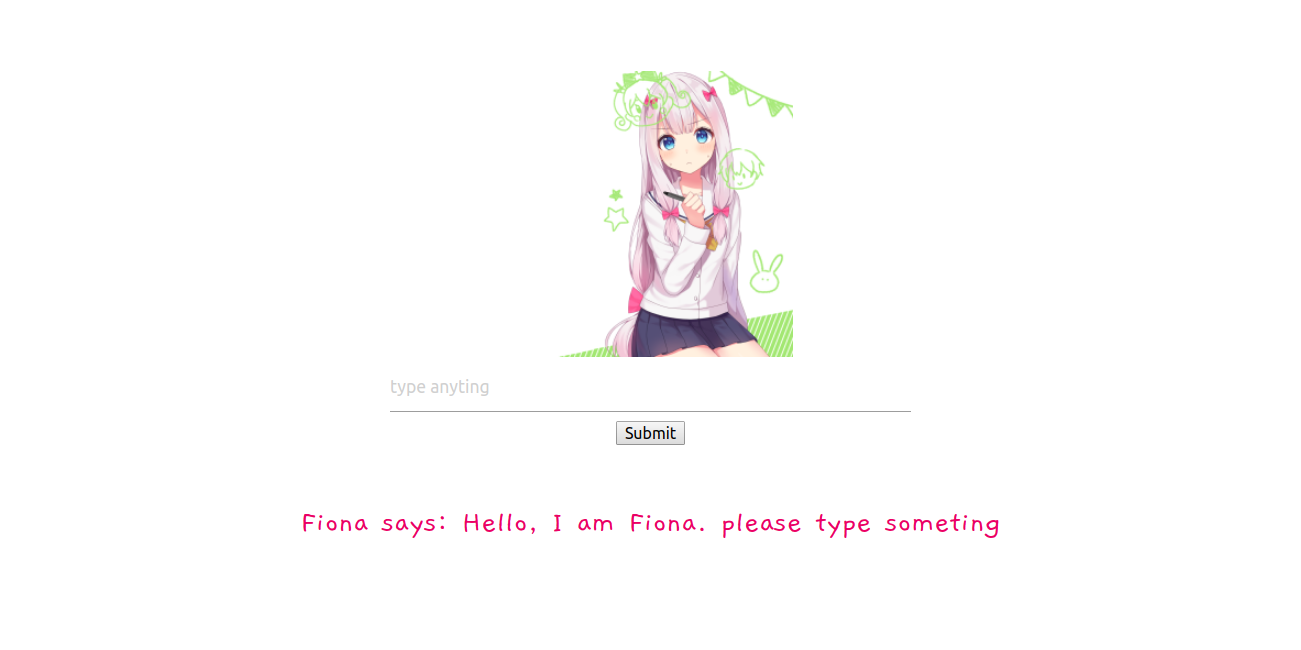
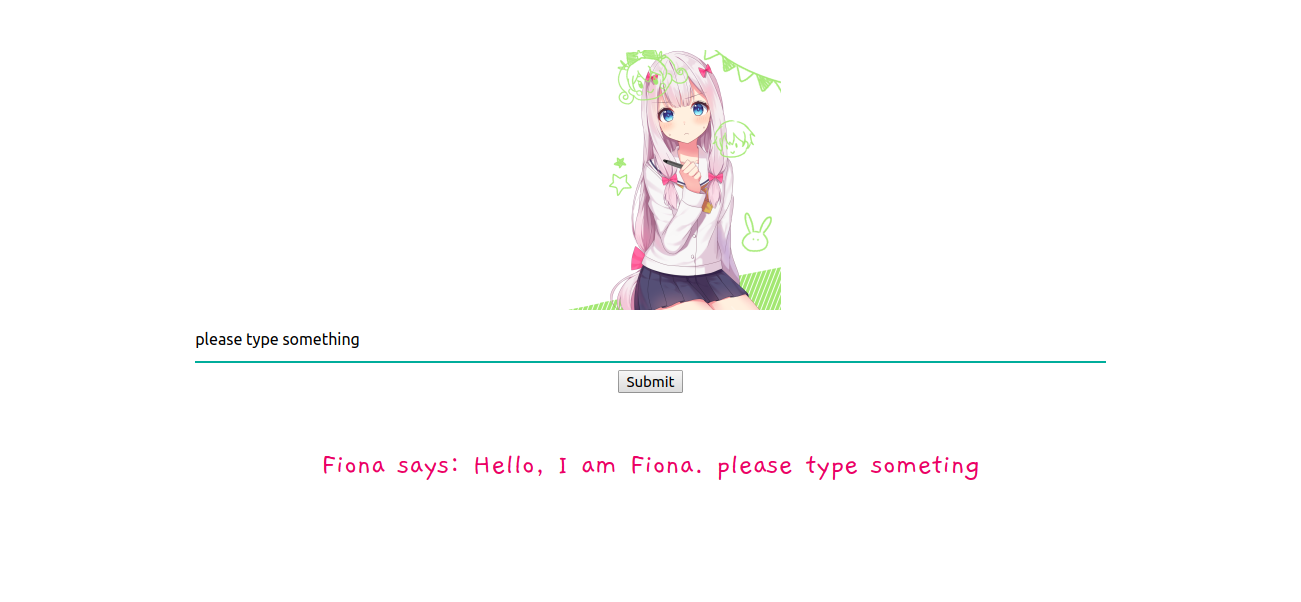
resize peoject pic

Changed region(s): [[0.4304, 0.0598, 0.6149, 0.5681], [0.1537, 0.5382, 0.8301, 0.6877], [0.2152, 0.7475, 0.7686, 0.8372]]

diff --git a/index.html b/index.html
@@ -70,15 +70,15 @@
 <section class="aboutme" id="about">
   <div class="aboutme-section py-3">
     <div class="container text-center">
-      <h2 class="text-center py-3" data-aos="fade-down">Hwo Am I</h2>
-      <div class="row">
+      <h2 class="text-center py-3" data-aos="fade-down">Who Am I</h2>
+      <div class="row text-justify">
         <div class="col-12 col-md-6">
           <div class="row">
-            <div class="col-md-10"  data-aos="fade-up">
+            <div class="col-md-10"  data-aos="fade-down">
               <p>
                 In 2016 I moved to Germany from Aleppo, Syria. I currently reside in Potsdam.
-                I studied  Music Art, I completed my one year Web Development course .
-                The course focuses on programming languages such as: HTML, CSS, Javascript with strong points on frameworks as React.js, NodeJS and their compatible 
+                I studied  Music Art, I completed my one year Web Development course.
+                The course focuses on programming languages such as: HTML, CSS, Javascript with strong points on frameworks as React.js, Node.Js.
               </p> 
               <!-- <img src="./img/pic.jpg"> --> 
             </div>
@@ -86,9 +86,9 @@
         </div>
         <div class="col-12 col-md-6">
           <div class="row">
-            <div class="col-md-10" data-aos="fade-up">
+            <div class="col-md-10" data-aos="fade-down">
               <p>
-                  A large part of the course experience is working on and developing projects as a part of a team, using Github, Waffle.io and other tools for project management and solving problems together I always like challenge, I'm very passionate about my new step,  being an artist  find  the way to combine  creativity with technology and always to achive the best.
+                  A large part of the course experience is working on and developing projects, as a part of a team, using Github for project management and solving problems together, I always like challenge. I'm very passionate about my new step,Being an artist and developer I want to find ways to combine creativity with technology and always give my best.
                </p>  
               </div>
             </div>
@@ -107,21 +107,21 @@
 
 <section>
   <div class="container project-section">
-    <div class="width row">
+    <div class="row">
         <div class="col-md-4  col-sm-6 mb-5">
             <a href="https://meralle.github.io/countriers/" target="blank">
                 <img src=./img/countries.png
                     class="img-fluid project-item">
             </a>
-            <span class="project-title">Countries table with googleapisle map</span>
+            <p class="project-title">Countries Table with google-API</p>
         </div>
 
         <div class="col-md-4 col-sm-6">
-            <a href="https://github.com/Meralle/Location-Of-My-Origin">
-                <img  src=./img/Location.png
+            <a href="https://github.com/Meralle/Location-Of-My-Origin" target="blank">
+                <img  src=./img/location.png
                       class="img-fluid project-item">
             </a>
-            <span class="project-title">Locationtioncation-Of-My-Origin</span>
+            <p class="project-title">Location-Of-My-Origin<br/> {Hackathon Project}</p>
         </div>
 
         <div class="col-md-4  col-sm-6">
@@ -129,24 +129,31 @@
                 <img src=./img/fiona.png 
                     class="img-fluid project-item">
             </a>
-            <span class="project-title">Fiona</span>
+            <p class="project-title">Fiona</p>
         </div>
 
         <div class="col-md-4 col-sm-6">
-            <a href="https://meralle.github.io/weather-api/">
+            <a href="https://meralle.github.io/github-api/" target="blank">
+                <img src=./img/github.png 
+                    class="img-fluid project-item">
+            </a>
+            <p class="project-title">Github-API</p>
+        </div>
+        <div class="col-md-4 col-sm-6">
+            <a href="https://meralle.github.io/Weather-API/" target="blank">
                 <img src=./img/weather.png 
                     class="img-fluid project-item">
             </a>
-            <span class="project-title">Weather-API</span>
+            <p class="project-title">Weather-API</p>
         </div>
 
         <div class="col-md-4 col-sm-6">
-            <a href="./challenges.html"><img src=./img/todo-list.png 
+            <a href="./challenges.html"><img src=./img/pro.png 
                     class="img-fluid project-item">
             </a>
             <div class="caption">      
                     <a href="./challenges.html"><p class="number"></p>
-                      <p class="captiontext">Coding Challenges</p></a>
+                    <p class="captiontext">Coding Challenges</p></a>
             </div>       
         </div>
     </div>
@@ -164,7 +171,7 @@
       <div class="row pb-5">
         <div class="col-12 col-md-6">
           <div class="resume-item">
-            <div class="row">
+            <div class="row text-justify">
               <div class="col-md-2">
                <i class="fa fa-graduation-cap fa-2x" aria-hidden="true"></i>
               </div>
@@ -176,7 +183,7 @@
           </div></br></br>
 
           <div class="resume-item">
-            <div class="row">
+            <div class="row text-justify">
               <div class="col-md-2">
                 <i class="fa fa-graduation-cap fa-2x" aria-hidden="true"></i>
               </div>
@@ -191,7 +198,7 @@
 
         <div class="col-12 col-md-6">
           <div class="resume-item">
-            <div class="row">
+            <div class="row text-justify">
               <div class="col-md-2">
                 <i class="fa fa-briefcase fa-2x" aria-hidden="true"></i>
               </div>
@@ -203,7 +210,7 @@
           </div></br></br>
 
           <div class="resume-item">
-            <div class="row">
+            <div class="row text-justify">
               <div class="col-md-2">
                 <i class="fa fa-briefcase fa-2x" aria-hidden="true"></i> 
               </div>
@@ -248,7 +255,7 @@
   <div class="contact-section">
     <div class="container text-center">
       <h2 class="text-center py-4"  data-aos="fade-down">Let's Talk</h2>
-          <ul class="list-unstyled" data-aos="fade-right">
+          <ul class="list-unstyled" data-aos="fade-down">
             <li class="contact-name">Meralle Halablyan</li>
             <li>14478 Potsdam - Germany</li>
             <li class="mail-container"><a class="mail" href="mailto:meralle.ha@gmail.com" target="_top" style="color:black">meralle.ha@gmail.com</a></li>
@@ -269,7 +276,7 @@
                 </div>
                
                 <div class="icon  col-md-1 text-center">
-                  <a href="https://www.facebook.com/Meralle.ha" target="_blank">
+                  <a href="" target="_blank">
                     <i class="fa fa-2x fa-facebook" aria-hidden="true"></i>
                   </a>
                 </div>

diff --git a/style.css b/style.css
@@ -102,19 +102,16 @@ p {
 .nav-item {
     margin-left:0.6rem;
     font-family:'Montserrat', sans-serif;
-
-}
+} 
 
 .project-title {
 	font-family:'Quicksand', sans-serif;
 	font-size: 1rem;
-
-
+	margin-top: 0.5rem;
 }
 
 .aboutme-section {
 	border-bottom:5px solid black;	
-
 }
 
 .resume-section {
@@ -123,25 +120,16 @@ p {
 
 .contact-section {
 	background-image:linear-gradient(260deg, #fff 0%, #FFF293 100%);
-	height:26rem;
-
-	
+	height:26rem;	
 }
+
 .project-item {
-	border:0.5px solid grey;
+	border:1px solid grey;
 }
 
 .img-fluid {
-	width:50vh;		
-	height:35vh;
-	display:inline-block; 
-    vertical-align: middle;
-    -webkit-transform:perspective(1px) translateZ(0); 
-    transform:perspective(1px) translateZ(0); 
-    -webkit-transition-duration:0.3s; 
-    transition-duration:0.3s; 
-    -webkit-transition-property:transform; 
-    transition-property:transform; 	
+	width:100%;		
+	height:auto;		
 }
 
 .img-fluid:hover, .img-fluid:focus, .img-fluid:active {
@@ -160,10 +148,6 @@ div i {
 	font-size: 4rem;
 	color:black;
 }
-
-/*.list-unstyled {
-	margin:0 auto;
-}*/
 
 .contact-name {
 	font-size:2rem;
